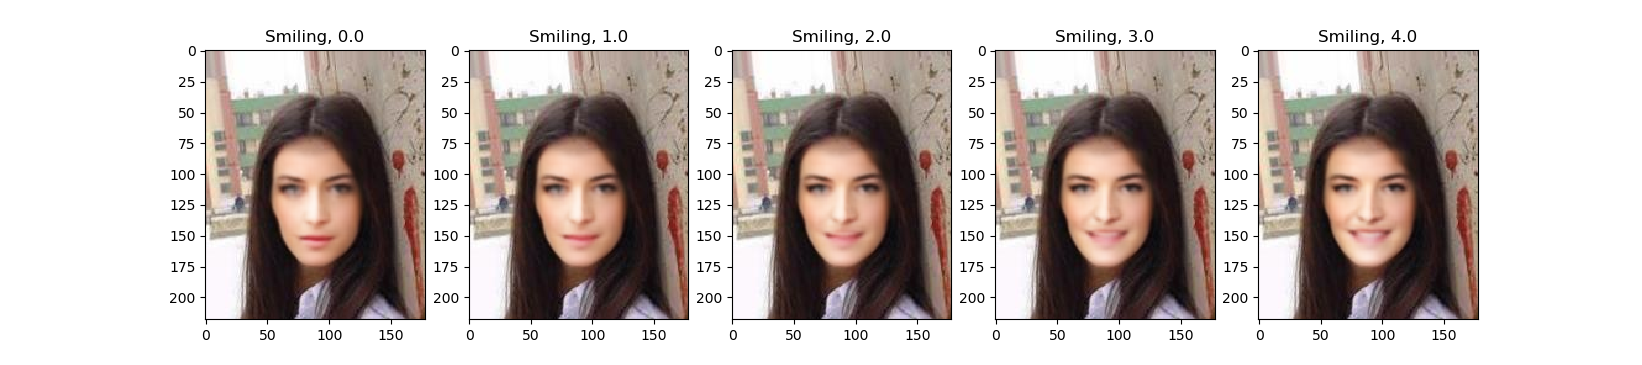
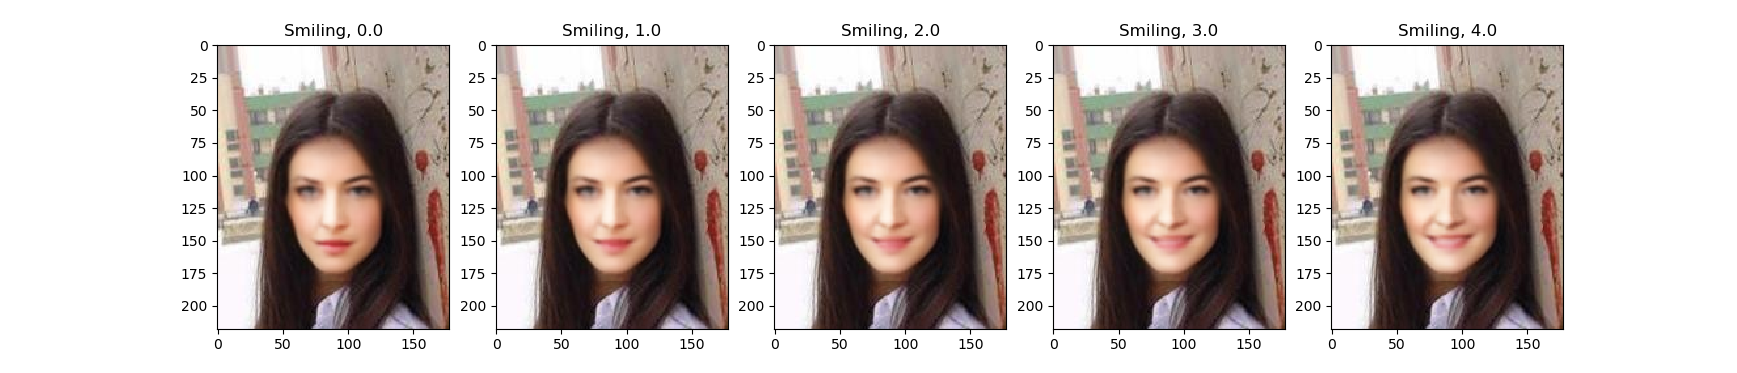
resized example images

diff --git a/config.py b/config.py
@@ -1,6 +1,6 @@
 config = {
     'attribute': 'Smiling',
     'parameter_range': (-0, 4.1, 1), # (min, max, step)
-    'image_filename': './images/me3.jpg',
+    'image_filename': './images/000026.jpg',
     'sample_size': 5
 }
